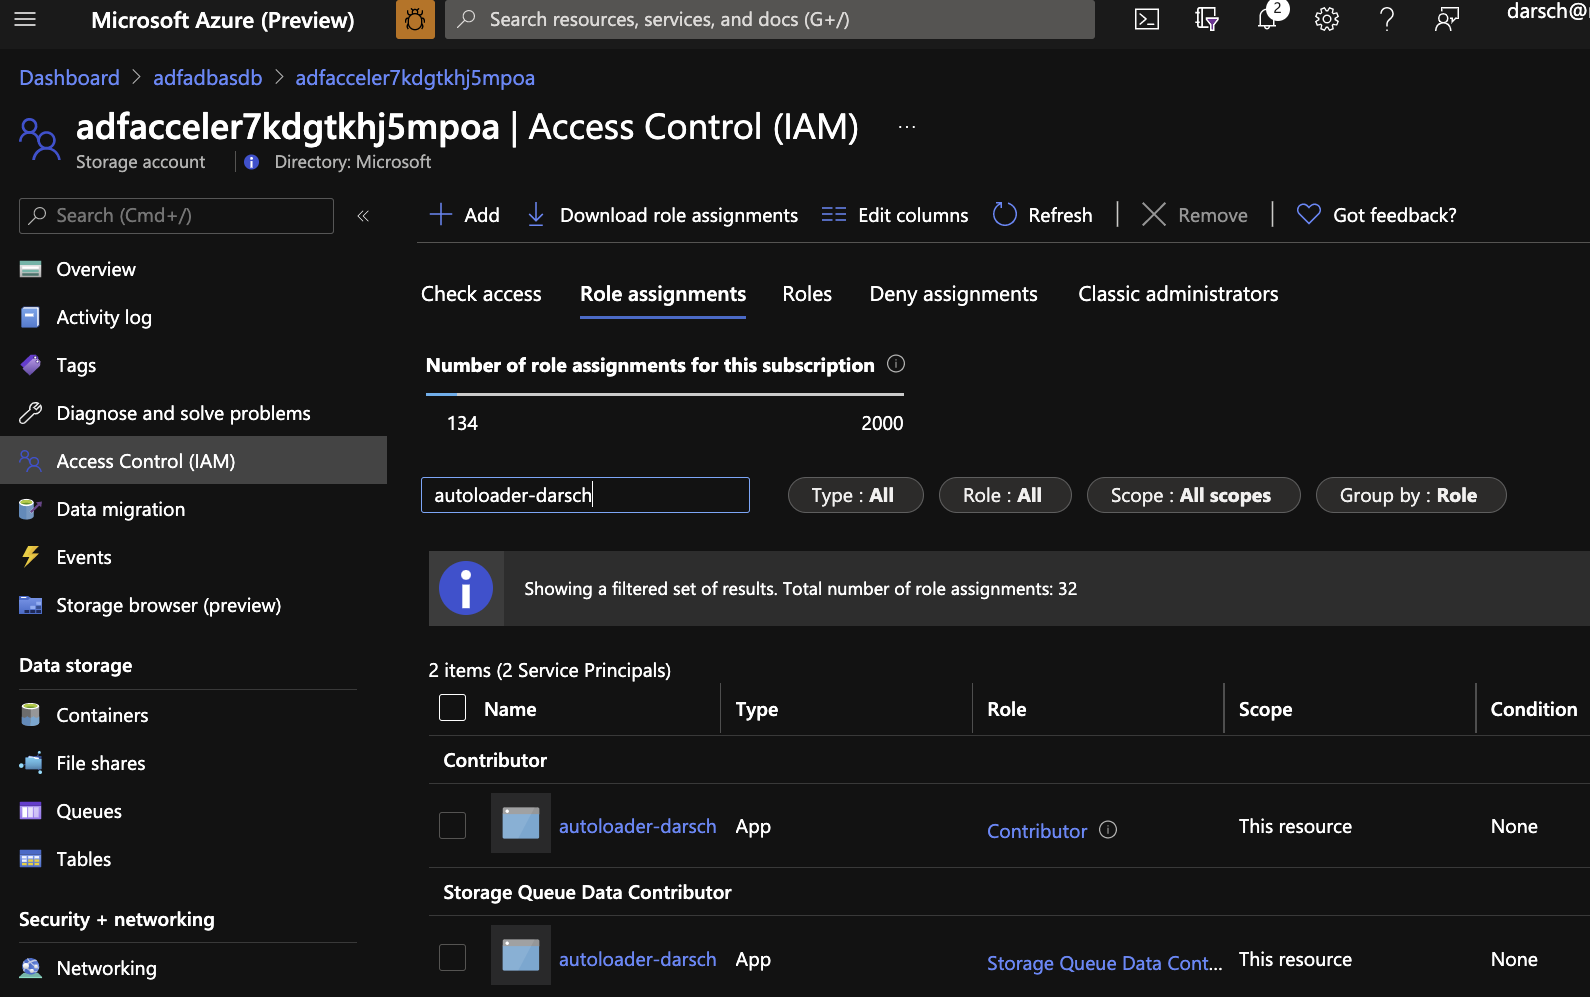
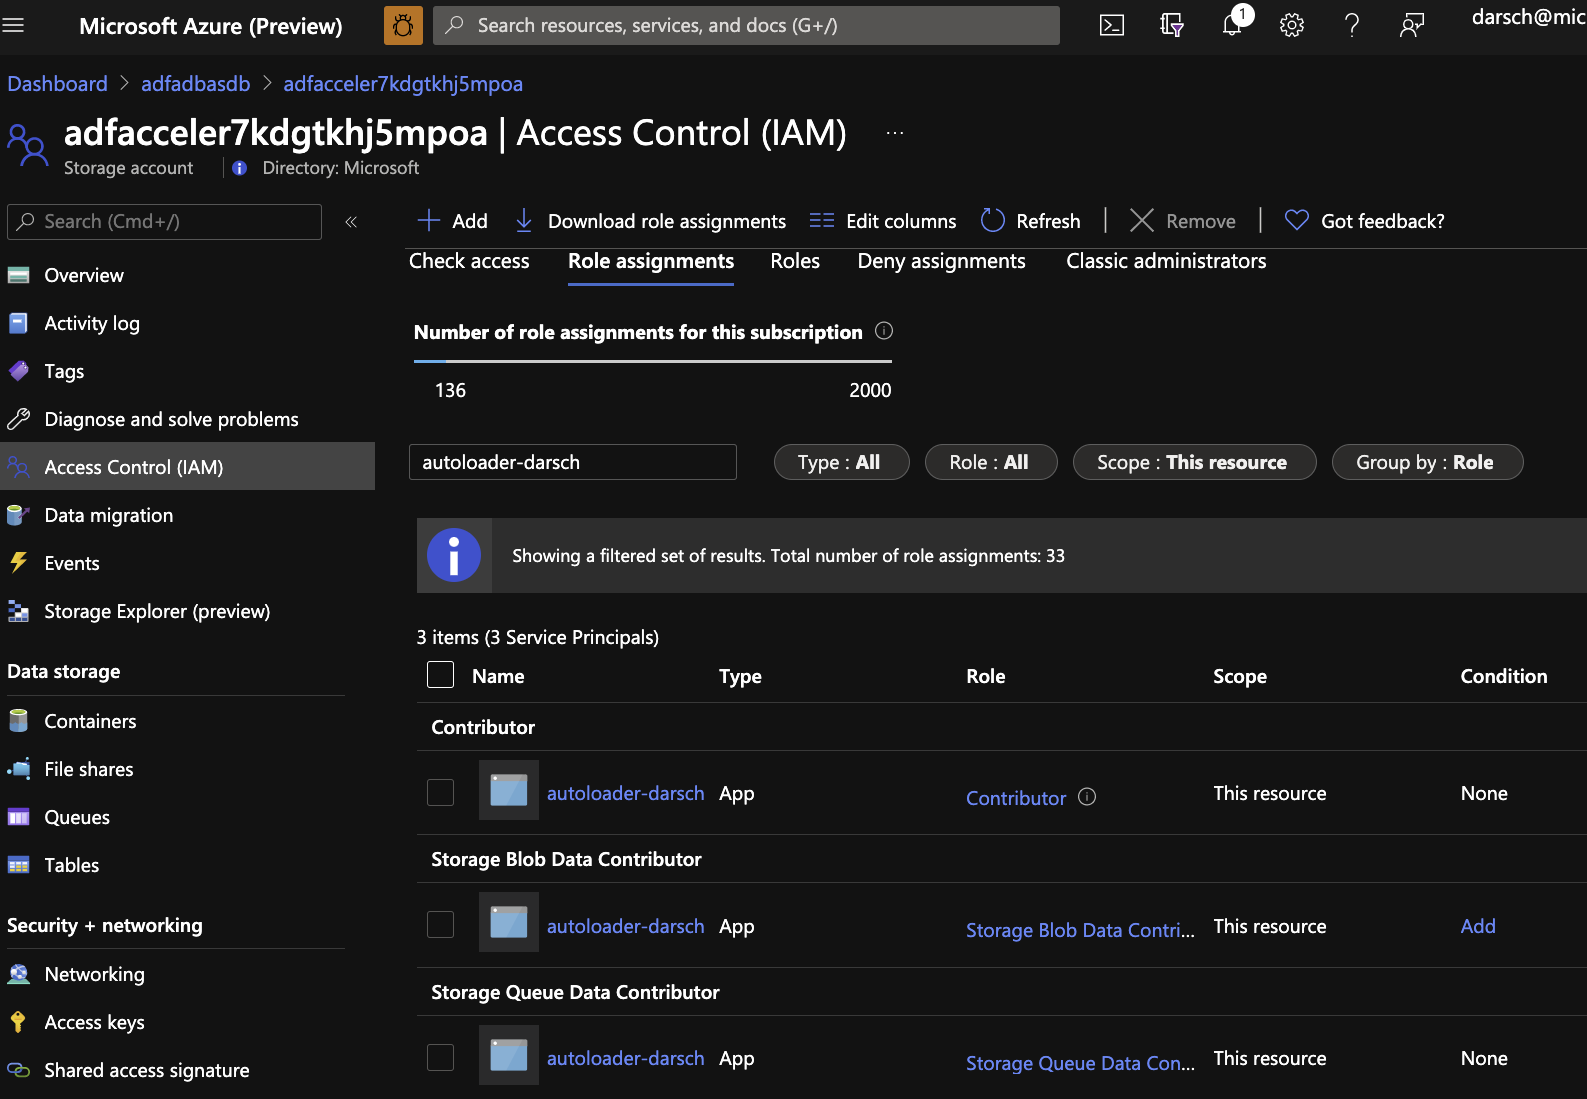
ckimages

diff --git a/usecases/cdc/steps/usecasesteps.md b/usecases/cdc/steps/usecasesteps.md
@@ -122,7 +122,7 @@ In my chase my deployment has a Storage account name of `adfacceler7kdgtkhj5mpoa
 
 ![adbrgservices](https://raw.githubusercontent.com/DataSnowman/analytics-accelerator/main/images/adbrgservices.png)
 
-Change the values for `sourceAdlsFolderName` and `sinkAdlsFolderName` to `CDC/Sales/Microsoft/adworkslt/SalesLT/Address` to match the value in the columns in the `ControlTableForSourceToSink` table.  Note if you change any column values in the `ControlTableForSourceToSink` table make the appropriate changes.
+Change the values for `sourceAdlsFolderName` and `sinkAdlsFolderName` to `CDC/Sales/Microsoft/AdventureWorksLT/SalesLT/Address` to match the value in the columns in the `ControlTableForSourceToSink` table.  Note if you change any column values in the `ControlTableForSourceToSink` table make the appropriate changes.
 
 ![adbfolderpath](https://raw.githubusercontent.com/DataSnowman/analytics-accelerator/main/images/adbfolderpath.png)
 
@@ -132,7 +132,7 @@ The notebook would now look like this:
 
 #### Configure Service Principal and Permissions
 
-*Create a Service principal*
+*Create a Service principal* [Reference](https://docs.microsoft.com/en-us/azure/active-directory/develop/howto-create-service-principal-portal#register-an-application-with-azure-ad-and-create-a-service-principal)
 
 Create an [Azure Active Directory app and service principal](https://docs.microsoft.com/en-us/azure/active-directory/develop/howto-create-service-principal-portal) in the form of client ID and client secret.
 
@@ -158,12 +158,13 @@ Note that it is a good idea to name the application with something unique to you
 
 ![adbappids](https://raw.githubusercontent.com/DataSnowman/analytics-accelerator/main/images/adbappids.png)
 
-*Assign Role Permissions*
+*Assign Role Permissions* [Reference](https://docs.microsoft.com/en-us/azure/databricks/spark/latest/structured-streaming/auto-loader-gen2#permissions)
 
 7. At storage account level assign this app the following roles to the storage account in which the input path resides:
 
     `Contributor`: This role is for setting up resources in your storage account, such as queues and event subscriptions.
-    `Storage Queue Data Contributor`: This role is for performing queue operations such as retrieving and deleting messages from the queues. This role is required in Databricks Runtime 8.1 and above only when you provide a service principal without a connection string.
+    `Storage Queue Data Contributor`: This role is for performing queue operations such as retrieving and deleting messages from the queues. This role is required in Databricks Runtime 8.1 and above only when you provide a service principal without a connection string.|
+    `Storage Blob Data Contributor` to access storage
 
 ![adbstorageiam](https://raw.githubusercontent.com/DataSnowman/analytics-accelerator/main/images/adbstorageiam.png)
 
@@ -239,7 +240,9 @@ ServicePrincipalSecret = dbutils.secrets.get("c-change-autoloader","appsecret")
 ResourceGroup = dbutils.secrets.get("c-change-autoloader","ResourceGroup")
 BlobConnectionKey = dbutils.secrets.get("c-change-autoloader","adls2-secret")
 ```
-**Create an Azure Key Vault-backed secret scope using the UI**
+The adls2-secrect is created using the storage key
+
+**Create an Azure Key Vault-backed secret scope using the UI** [Reference](https://docs.microsoft.com/en-us/azure/databricks/security/secrets/secret-scopes#create-an-azure-key-vault-backed-secret-scope-using-the-ui)
 
 Verify that you have Contributor permission on the Azure Key Vault instance that you want to use to back the secret scope.
 
@@ -253,11 +256,60 @@ You can find the databricks-instance in the URL of your workspace
 
 ![adbinstance](https://raw.githubusercontent.com/DataSnowman/analytics-accelerator/main/images/adbinstance.png)
 
+Enter Scope Name: I choose something like `c-change-autoloader` which is what I used in the notebook
 
-#### Create a Databricks Cluster
+Manage Principal:  `All Users`
+
+DNS Name: `https://xxxxxx.vault.azure.net/` Find in the properites of Key vault under Vault URI
+
+Resource ID: Find in the properties of the Key vault.  Looks something like this: 
+
+```
+/subscriptions/xxxxxxxx-xxxx-xxxx-xxxx-xxxxxxxxxxxx/resourcegroups/databricks-rg/providers/Microsoft.KeyVault/vaults/databricksKV
+```
+![adbsecretResID](https://raw.githubusercontent.com/DataSnowman/analytics-accelerator/main/images/adbsecretResID.png)
+
+Click Create
+
+![adbsecretscope](https://raw.githubusercontent.com/DataSnowman/analytics-accelerator/main/images/adbsecretscope.png)
+
+
+#### Create a Databricks Cluster and attach to notebook
 
 Create a cluster using the Runtime 8.3 or above
 
 Enter Cluster Name, Runtime Version, Set Terminate after, Min Workers, Max Workers and click Create Cluster
 
 ![adbcreatecluster](https://raw.githubusercontent.com/DataSnowman/analytics-accelerator/main/images/adbcreatecluster.png)
+
+#### Run the notebook one cell at a time (at least the first time)
+
+Once the cluster is started you will be able to run the code in the cells
+
+Click on Run Cell
+
+![adbcruncell](https://raw.githubusercontent.com/DataSnowman/analytics-accelerator/main/images/adbcruncell.png)
+
+Do this for the next cell down etc.
+
+You can skip cell 6 the first time because nothing has been mounted.  You may get an error like this:
+
+![adbunmount](https://raw.githubusercontent.com/DataSnowman/analytics-accelerator/main/images/adbunmount.png)
+
+Just move on to cell 7 to mount the Source and Sink file system
+
+The first time to run cell 16 comment out the 2 lines it references by putting # at beginning of each line.
+
+```
+ #.foreachBatch(upsertToDelta) # Comment this out first time you run
+ #.queryName("c-changeLoader-merge") # Comment this out first time you run
+```
+
+![adbcell16](https://raw.githubusercontent.com/DataSnowman/analytics-accelerator/main/images/adbcell16.png)
+
+After you run this the first time uncomment the 2 lines because you will want the upsert to run
+
+Also notice that running the notebook has created a `Event Grid System Topic` in the resources
+
+![adbeventgrid](https://raw.githubusercontent.com/DataSnowman/analytics-accelerator/main/images/adbeventgrid.png)
+
